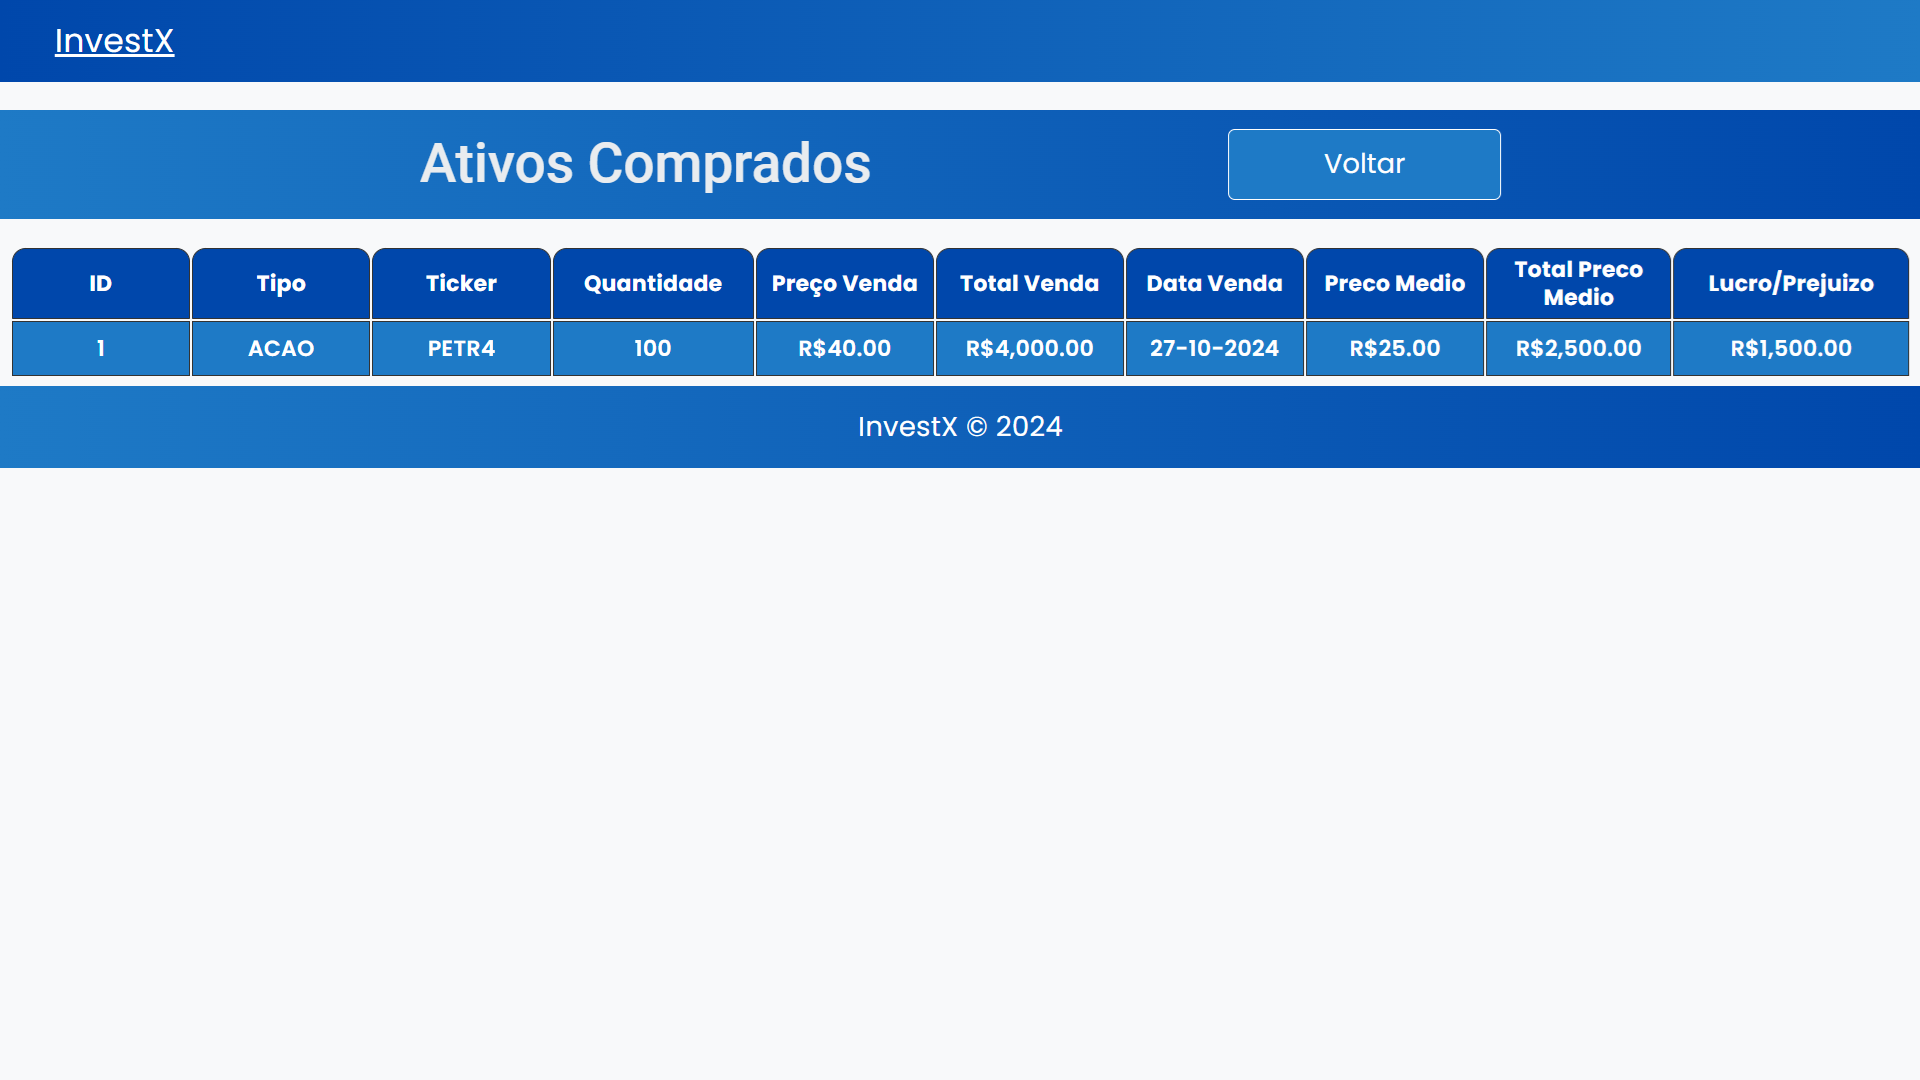
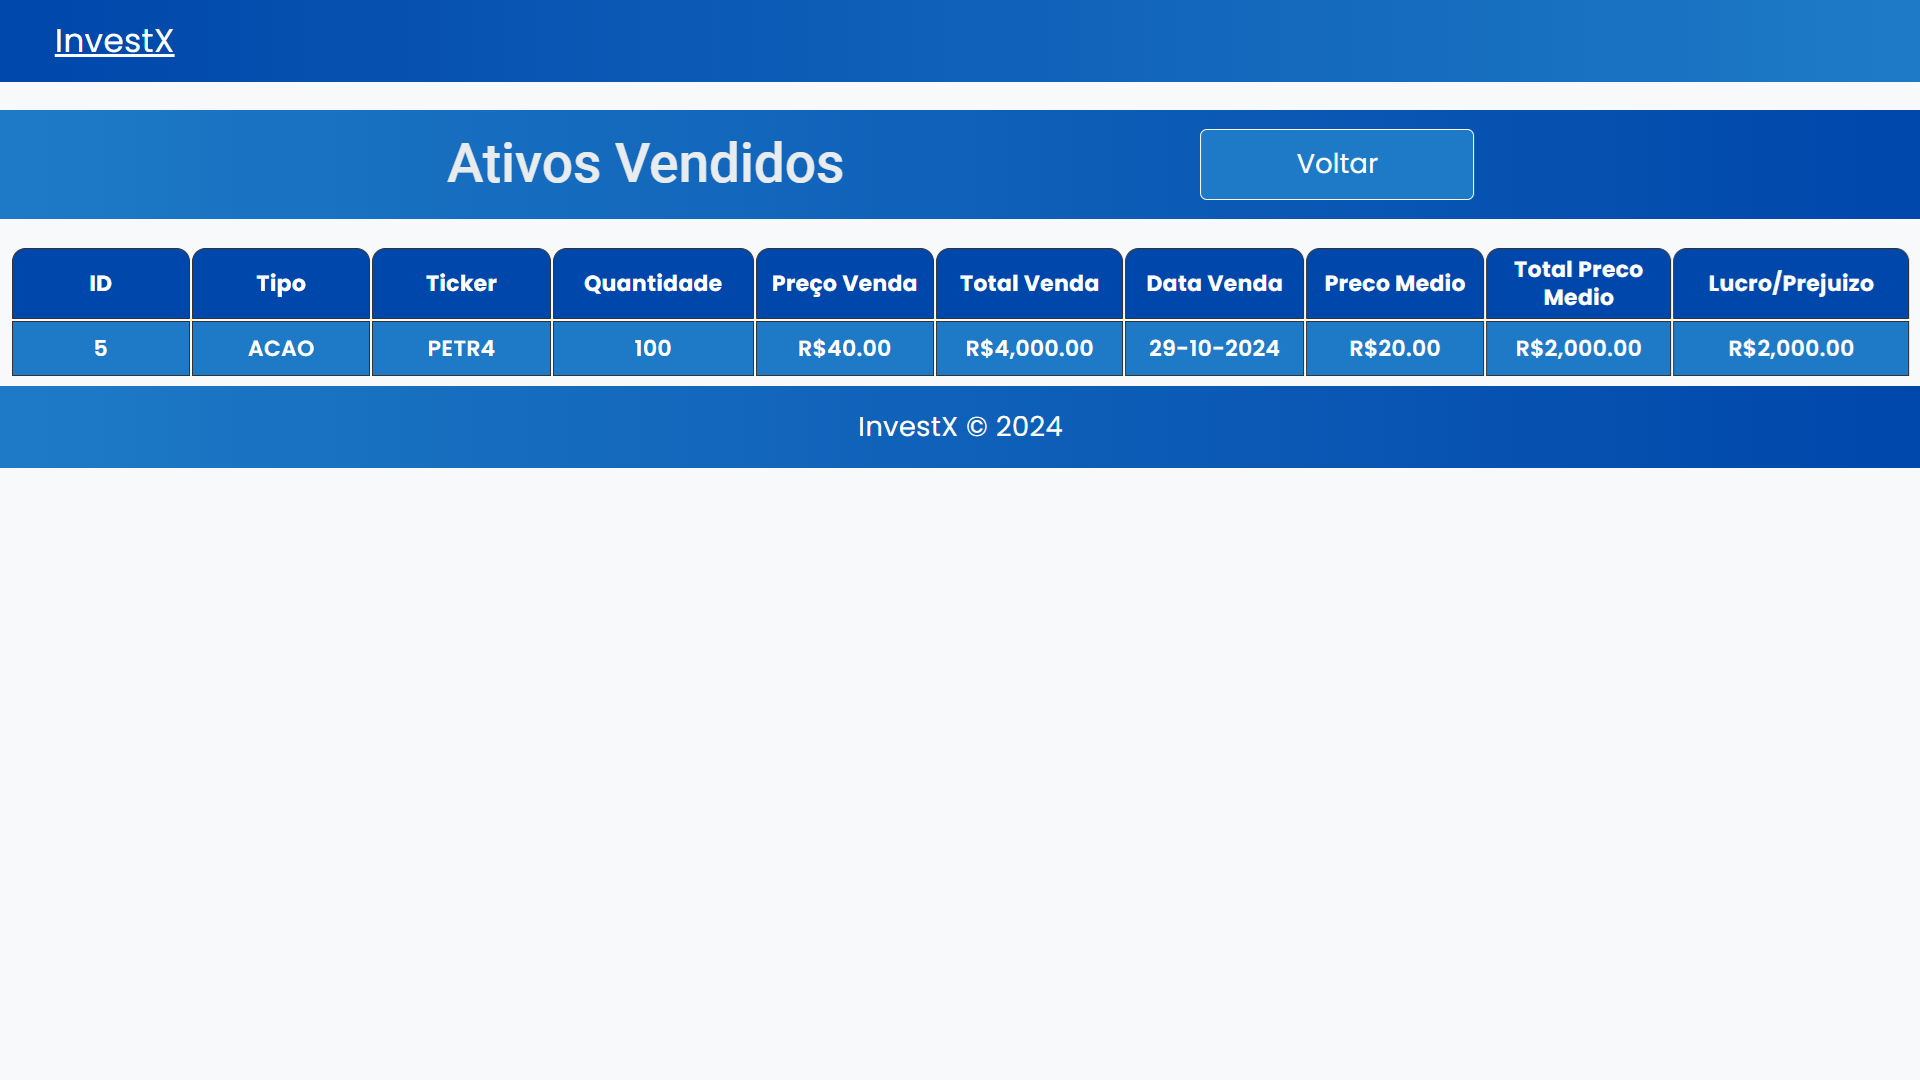
fix:titulo dos ativos vendidos e refatoracao CarteiraService

diff --git a/src/app/services/carteira.service.ts b/src/app/services/carteira.service.ts
@@ -9,20 +9,20 @@ import { HttpParams } from '@angular/common/http';
 })
 export class CarteiraService {
     // URL base da API utilizada para acessar os recursos de carteira
-    apiUrl: string = 'http://localhost:8080/carteiras';
+    private apiUrl: string = 'http://localhost:8080/carteiras';
 
     // dados recuperados do Session Storage do browser
-    token = 'Bearer ' + sessionStorage.getItem('auth-token');
-    clienteId = Number(sessionStorage.getItem('user-id'));
-    carteiraId = Number(sessionStorage.getItem('carteira-id'));
+    private token = 'Bearer ' + sessionStorage.getItem('auth-token');
+    private clienteId = Number(sessionStorage.getItem('user-id'));
+    private carteiraId = Number(sessionStorage.getItem('carteira-id'));
 
     // Armazena a carteira localmente, podendo ser nulo se ainda não foi carregada
-    carteira: Carteira | null = null;
+    private carteira: Carteira | null = null;
 
     constructor(private httpClient: HttpClient) {}
 
     // Constrói o cabeçalho HTTP com o token de autenticação
-    header: HttpHeaders = new HttpHeaders({
+    private header: HttpHeaders = new HttpHeaders({
         'Content-Type': 'application/json',
         Authorization: this.token,
     });
@@ -37,7 +37,7 @@ export class CarteiraService {
             clienteId: parseInt(clienteId.toString()),
         };
         return this.httpClient
-            .post<Carteira>('http://localhost:8080/carteiras', data, {
+            .post<Carteira>(this.apiUrl, data, {
                 headers: this.header,
             })
             .pipe(
@@ -65,7 +65,7 @@ export class CarteiraService {
         });
 
         return this.httpClient
-            .get<Carteira>('http://localhost:8080/carteiras', {
+            .get<Carteira>(this.apiUrl, {
                 params,
                 headers: this.header,
             })
@@ -101,7 +101,7 @@ export class CarteiraService {
             novoSaldo: parseInt(novoSaldo.toString()),
         };
         return this.httpClient.put<Carteira>(
-            'http://localhost:8080/carteiras/' + this.carteiraId + '/adicionar',
+            this.apiUrl + '/' + this.carteiraId + '/adicionar',
             data,
             {
                 headers: this.header,
@@ -119,7 +119,7 @@ export class CarteiraService {
             novoSaldo: parseInt(novoSaldo.toString()),
         };
         return this.httpClient.put<Carteira>(
-            'http://localhost:8080/carteiras/' + this.carteiraId + '/remover',
+            this.apiUrl + '/' + this.carteiraId + '/remover',
             data,
             {
                 headers: this.header,
@@ -148,7 +148,7 @@ export class CarteiraService {
             tipo: tipo,
         };
         return this.httpClient.post<Carteira>(
-            'http://localhost:8080/carteiras/' + this.carteiraId + '/comprar',
+            this.apiUrl + '/' + this.carteiraId + '/comprar',
             data,
             {
                 headers: this.header,
@@ -177,7 +177,7 @@ export class CarteiraService {
             tipo: tipo,
         };
         return this.httpClient.post<Carteira>(
-            'http://localhost:8080/carteiras/' + this.carteiraId + '/vender',
+            this.apiUrl + '/' + this.carteiraId + '/vender',
             data,
             {
                 headers: this.header,
